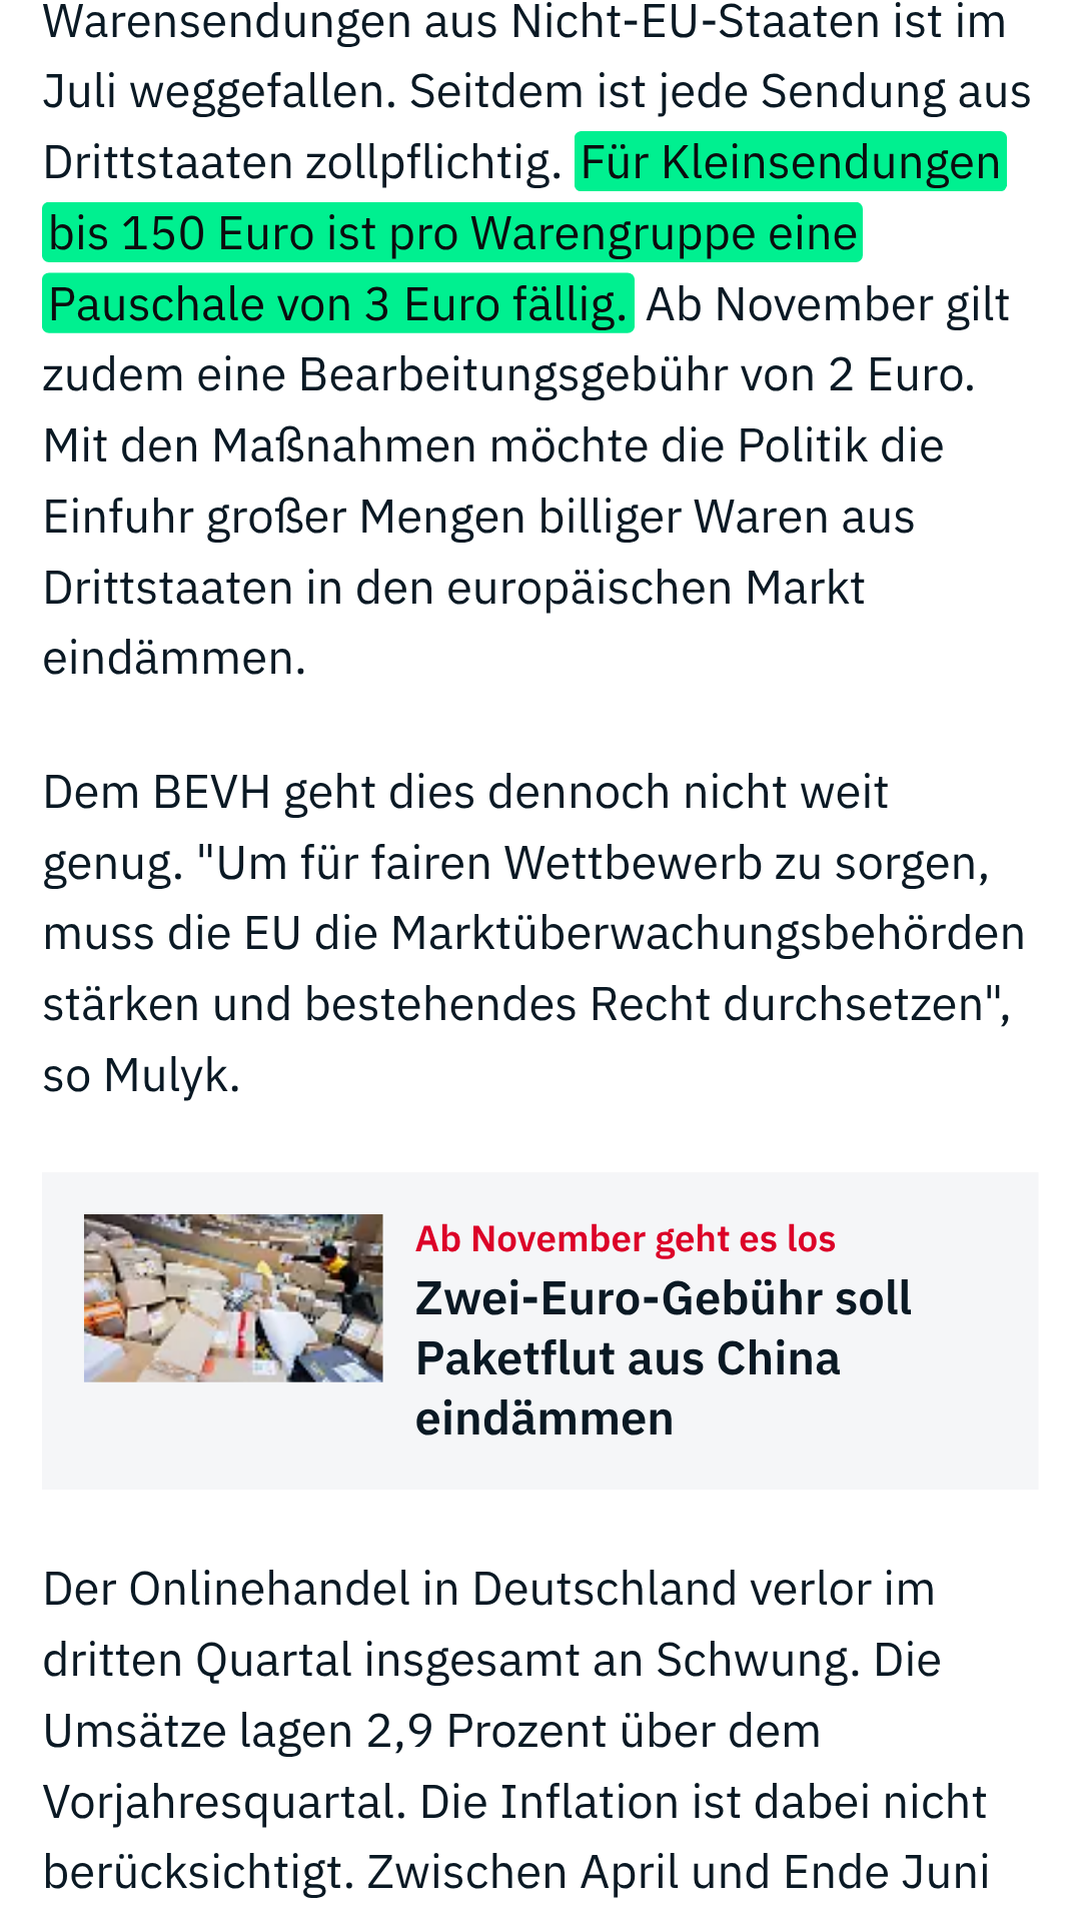
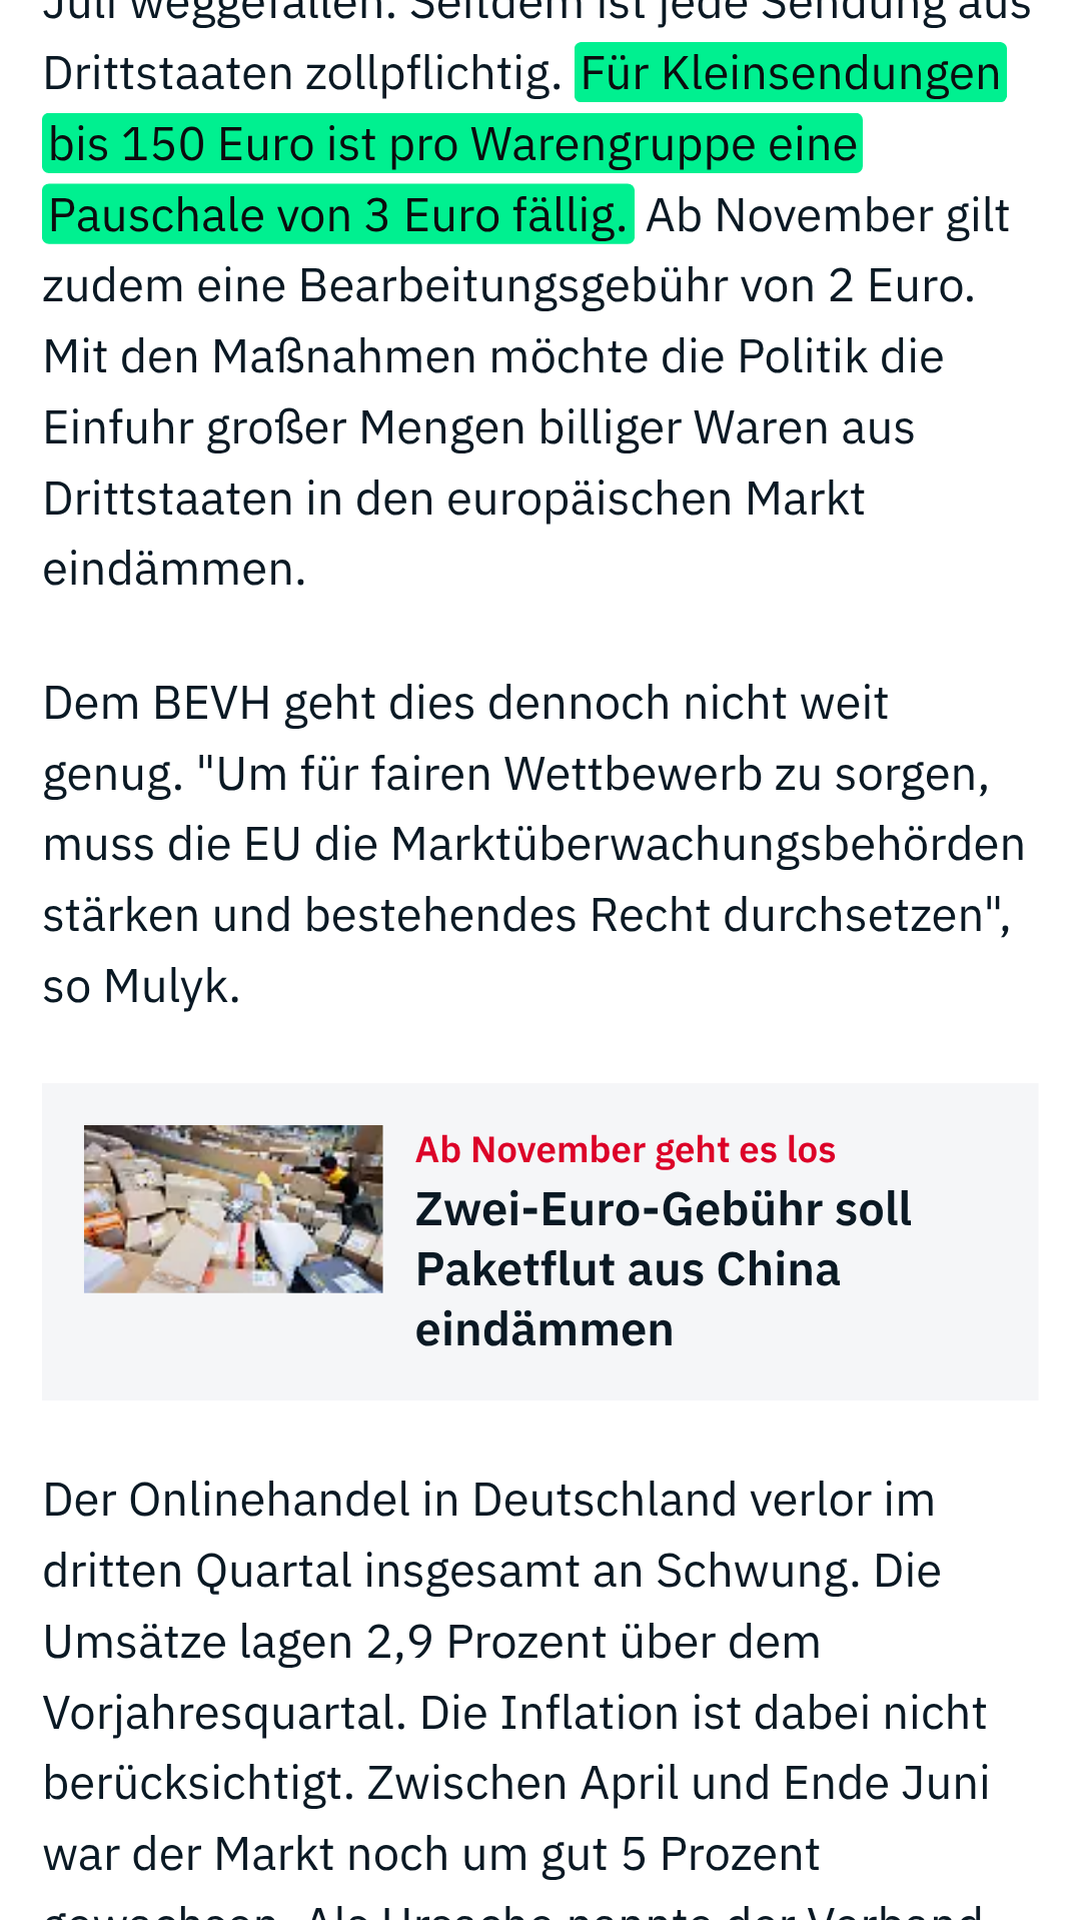
Temu: Einblendungen über dem Kopf statt darauf; Regel im News-Stil
Claude-Session: https://claude.ai/code/session_01GQEjZQTxgiMMht9325BRdG

Changed region(s): [[0.0306, 0.0, 0.9472, 1.0], [0.7333, 0.75, 0.7639, 0.7812]]

diff --git a/src/projekte/temu/Video.tsx b/src/projekte/temu/Video.tsx
@@ -27,7 +27,12 @@ export const meta = { id: "Temu", durationInFrames: C.DURATION, fps: C.FPS };
 const OBEN = { scale: 1.2, hoch: 430 };
 const MITTE = OBEN;
 /** Einblendungen zur Quelle: direkt über dem Kopf */
-const QY = 340;
+const QY = 265;
+/** Hook, Szenen-Titel und Begriffe stehen über dem Kopf (Haar bei y ~400, seine Vorgabe 2026-10-12: "Jetzt liegen die
+ * Einblendungen leider direkt auf meinem Kopf"): der Hook kleiner (y ~200-395), die Szenen 60 px höher (Titel
+ * y ~230-360); die Begriffe stehen in derselben Zeile und ersetzen den Titel, sobald der erste erscheint. */
+const HOCH = -60;
+const titelBis = (at: number, ersterBegriff: number) => Math.min(TITEL, ersterBegriff - at - 8);
 /** Untertitel klein bei y 1260; Hinweise bei y 1350, die Quellen-Pille klein unten rechts bei y 1440 */
 const UT = { top: 1260, size: 64 };
 const HOSE = 1700;
@@ -97,7 +102,9 @@ const Inhalt: React.FC<Props> = ({ voice = true, sfx = true, raster = false }) =
       <Toenung />
       <Bodenblende ab={HOSE * lage.scale - lage.hoch} />
 
-      <HookTitle fr={fr} line1="Temu verliert" line2="35 % Umsatz?!" outAt={T.gs1 - 4} />
+      <AbsoluteFill style={{ transform: "translateY(-10px) scale(0.68)", transformOrigin: "50% 0%" }}>
+        <HookTitle fr={fr} line1="Temu verliert" line2="35 % Umsatz?!" outAt={T.gs1 - 4} />
+      </AbsoluteFill>
 
       {/* Quelle hinter ihm (Greenscreen im Take): Schlagzeile, dann die markierten Stellen */}
       <Pop fr={fr} at={T.gs1} until={QUELLE_ENDE} x={60} y={1440} w={890} style={{ textAlign: "right", transformOrigin: "right center" }}>
@@ -136,66 +143,74 @@ const Inhalt: React.FC<Props> = ({ voice = true, sfx = true, raster = false }) =
       </Pop>
 
       {/* Das Spannende: Temu verkauft weniger, deutsche Shops gewinnen nicht automatisch */}
-      <Szene fr={fr} at={T.spannend} until={T.shops - 2} title="Das Spannende" frei titelDauer={TITEL}>
-        <Pop fr={fr} at={F("weniger", T.spannend)} until={F("automatisch", T.spannend) - 4} x={24} y={110}>
+      <AbsoluteFill style={{ transform: `translateY(${HOCH}px)` }}>
+      <Szene fr={fr} at={T.spannend} until={T.shops - 2} title="Das Spannende" frei titelDauer={titelBis(T.spannend, F("weniger", T.spannend))}>
+        <Pop fr={fr} at={F("weniger", T.spannend)} until={F("automatisch", T.spannend) - 4} x={24} y={10}>
           <Row text="Temu & Co. verkaufen weniger" mark="ok" width={720} onPhoto />
         </Pop>
-        <Pop fr={fr} at={F("automatisch", T.spannend)} x={24} y={110}>
-          <Row text="deutsche Shops gewinnen nicht automatisch" mark="no" width={900} onPhoto />
+        <Pop fr={fr} at={F("automatisch", T.spannend)} x={24} y={10}>
+          <Row text="Shops gewinnen nicht automatisch" mark="no" width={760} onPhoto />
         </Pop>
       </Szene>
+      </AbsoluteFill>
 
       {/* Womit Shops überzeugen */}
-      <Szene fr={fr} at={T.shops} until={T.meinung - 2} title="So überzeugst du Kunden" frei titelDauer={TITEL}>
-        <Pop fr={fr} at={F("produkten")} x={24} y={110}>
+      <AbsoluteFill style={{ transform: `translateY(${HOCH}px)` }}>
+      <Szene fr={fr} at={T.shops} until={T.meinung - 2} title="So überzeugst du Kunden" frei titelDauer={titelBis(T.shops, F("produkten"))}>
+        <Pop fr={fr} at={F("produkten")} x={24} y={10}>
           <Tag kind="ok" size={S}>
             Produkte
           </Tag>
         </Pop>
-        <Pop fr={fr} at={F("vertrauen")} x={x2} y={110}>
+        <Pop fr={fr} at={F("vertrauen")} x={x2} y={10}>
           <Tag kind="ok" size={S}>
             Vertrauen
           </Tag>
         </Pop>
-        <Pop fr={fr} at={F("preisen")} x={x3} y={110}>
+        <Pop fr={fr} at={F("preisen")} x={x3} y={10}>
           <Tag kind="ok" size={S}>
             Preise
           </Tag>
         </Pop>
-        <Pop fr={fr} at={F("funktioniert")} x={x4} y={110}>
+        <Pop fr={fr} at={F("funktioniert")} x={x4} y={10}>
           <Tag kind="ok" size={S}>
             guter Shop
           </Tag>
         </Pop>
       </Szene>
+      </AbsoluteFill>
 
       {/* Seine Meinung */}
-      <Szene fr={fr} at={T.meinung} until={T.frage - 2} title="Meine Meinung" frei titelDauer={TITEL}>
-        <Pop fr={fr} at={F("konkurrenz", T.meinung)} x={24} y={110}>
+      <AbsoluteFill style={{ transform: `translateY(${HOCH}px)` }}>
+      <Szene fr={fr} at={T.meinung} until={T.frage - 2} title="Meine Meinung" frei titelDauer={titelBis(T.meinung, F("konkurrenz", T.meinung))}>
+        <Pop fr={fr} at={F("konkurrenz", T.meinung)} x={24} y={10}>
           <Tag kind="ok" size={44}>
             Weniger Konkurrenz
           </Tag>
         </Pop>
-        <Pop fr={fr} at={F("verkaufsstrategie")} x={tagX("Weniger Konkurrenz", 44)} y={110}>
+        <Pop fr={fr} at={F("verkaufsstrategie")} x={tagX("Weniger Konkurrenz", 44)} y={10}>
           <Tag kind="wichtig" size={44}>
             ≠ Verkaufsstrategie
           </Tag>
         </Pop>
       </Szene>
+      </AbsoluteFill>
 
       {/* Frage an die Community */}
-      <Szene fr={fr} at={T.frage} until={Infinity} title="Was glaubt ihr?" frei titelDauer={TITEL}>
-        <Pop fr={fr} at={F("deutschen", T.frage)} x={24} y={110}>
+      <AbsoluteFill style={{ transform: `translateY(${HOCH}px)` }}>
+      <Szene fr={fr} at={T.frage} until={Infinity} title="Was glaubt ihr?" frei titelDauer={titelBis(T.frage, F("deutschen", T.frage))}>
+        <Pop fr={fr} at={F("deutschen", T.frage)} x={24} y={10}>
           <Tag kind="ok" size={44}>
             Mehr bei deutschen Shops?
           </Tag>
         </Pop>
-        <Pop fr={fr} at={F("bestellen", T.frage)} x={tagX("Mehr bei deutschen Shops?", 44)} y={110}>
+        <Pop fr={fr} at={F("bestellen", T.frage)} x={tagX("Mehr bei deutschen Shops?", 44)} y={10}>
           <Tag kind="ok" size={44}>
             Oder weniger?
           </Tag>
         </Pop>
       </Szene>
+      </AbsoluteFill>
 
       <Captions C={C} fr={fr} top={UT.top} size={UT.size} />
 

diff --git a/.claude/skills/stil-news/SKILL.md b/.claude/skills/stil-news/SKILL.md
@@ -34,8 +34,12 @@ nicht mehr). Schrift, Farben, Untertitel-Look, Hook-Look und Chips kommen aus de
   y ~500). Der Kopf beginnt direkt darunter: **das Gesicht im unteren Teil des oberen Drittels** (Augen bei y ~600-640,
   seine Vorgabe 2026-10-12: "mein Gesicht könnte hier etwas höher gesetzt sein, im unteren Teil des oberen Drittels"),
   Bildlage "OBEN" mit `<Takes transform="translateY(-430px) scale(1.2)" transformOrigin="50% 0%" />` (bei seinem
-  Bürostuhl-Setup Haar bei y ~400; mit Standbildern nachmessen; die Begriffe dürfen das Haar knapp berühren, nie die
-  Stirn). Begriffe in der Szene bei `y={110}`. Untertitel bei y 1260 (klein, siehe Untertitel), unten
+  Bürostuhl-Setup Haar bei y ~400; mit Standbildern nachmessen). **Alle Einblendungen enden mindestens 30 px über
+  dem Haar** ("Jetzt liegen die Einblendungen leider direkt auf meinem Kopf. Sie müssten somit ein wenig über meinem
+  Kopf angezeigt werden", 2026-10-12): der Hook in `<AbsoluteFill style={{ transform: "translateY(-10px) scale(0.68)",
+  transformOrigin: "50% 0%" }}>` (y ~165-395), jede Szene in `<AbsoluteFill style={{ transform: "translateY(-60px)" }}>`
+  (Titel y ~230-360), die Begriffe in **derselben Zeile** wie der Titel (`y={10}`), der Titel blendet aus, sobald der
+  erste Begriff kommt (`titelDauer={Math.min(TITEL, ersterBegriff - at - 8)}`). Vorlage `src/projekte/temu/Video.tsx`. Untertitel bei y 1260 (klein, siehe Untertitel), unten
   `<Bodenblende ab={HOSE * 1.2 - 430} />` gegen Hose und leeren Rand.
   Pro Szene also nur Titel plus eine Zeile Begriffe: ein weiterer Begriff ersetzt den vorherigen (`until` = nächstes
   Wort - 4 Frames) oder steht daneben (`tagBreite`). Keine Pille unter dem Hook, keine Antwort-Chips (Ja/Nein) am
@@ -59,9 +63,9 @@ nicht mehr). Schrift, Farben, Untertitel-Look, Hook-Look und Chips kommen aus de
   die Stelle, über die er spricht, im Artikel **hellgrün markieren** (`<mark>` in `#00F090`, dunkle Schrift) und
   mittig scrollen. Erst die Schlagzeile (Seite oben), dann die markierte Zahl oder Aussage.
 - **Hintergrundbild bauen** (1080x1920, so wie es im fertigen Video aussehen soll): das Wichtige (Schlagzeile,
-  markierte Stelle) liegt über dem Kopf und über der Einblendung zur Quelle: markierte Stelle bei y ~130-330
-  (Screenshot: `scrollTo(markTop - 50)` in CSS-Pixeln), die Einblendung dazu (z. B. groß "−35,5 % Umsatz",
-  `Tag kind="wichtig" size={64}`) direkt darunter bei y 340, der Kopf ab ~400. Liegen
+  markierte Stelle) liegt über dem Kopf und über der Einblendung zur Quelle: markierte Stelle endet bei y ~245
+  (Screenshot: `scrollTo(markBottom - 93)` in CSS-Pixeln), die Einblendung dazu (z. B. groß "−35,5 % Umsatz",
+  `Tag kind="wichtig" size={64}`) direkt darunter bei y 265-360, der Kopf ab ~400. Liegen
   lassen in `public/broll/<projekt>/hg-*.png`.
 - **In den Take rechnen:** `npm run portrait -- <projekt> --hintergrund public/broll/<projekt>/hg-x.png@<von>-<bis>
   [--hintergrund …] --ausschnitt 1.2,430` (von/bis in Sekunden im Take, genau die Sätze, die über die Quelle reden; `bis` mindestens 0,15 s nach dem letzten Wort, sonst blitzt am Schnitt ein Einzelbild mit dem Raum auf, so passiert bei KI-Kunde 2026-10-12, gefunden von `npm run checks`).
